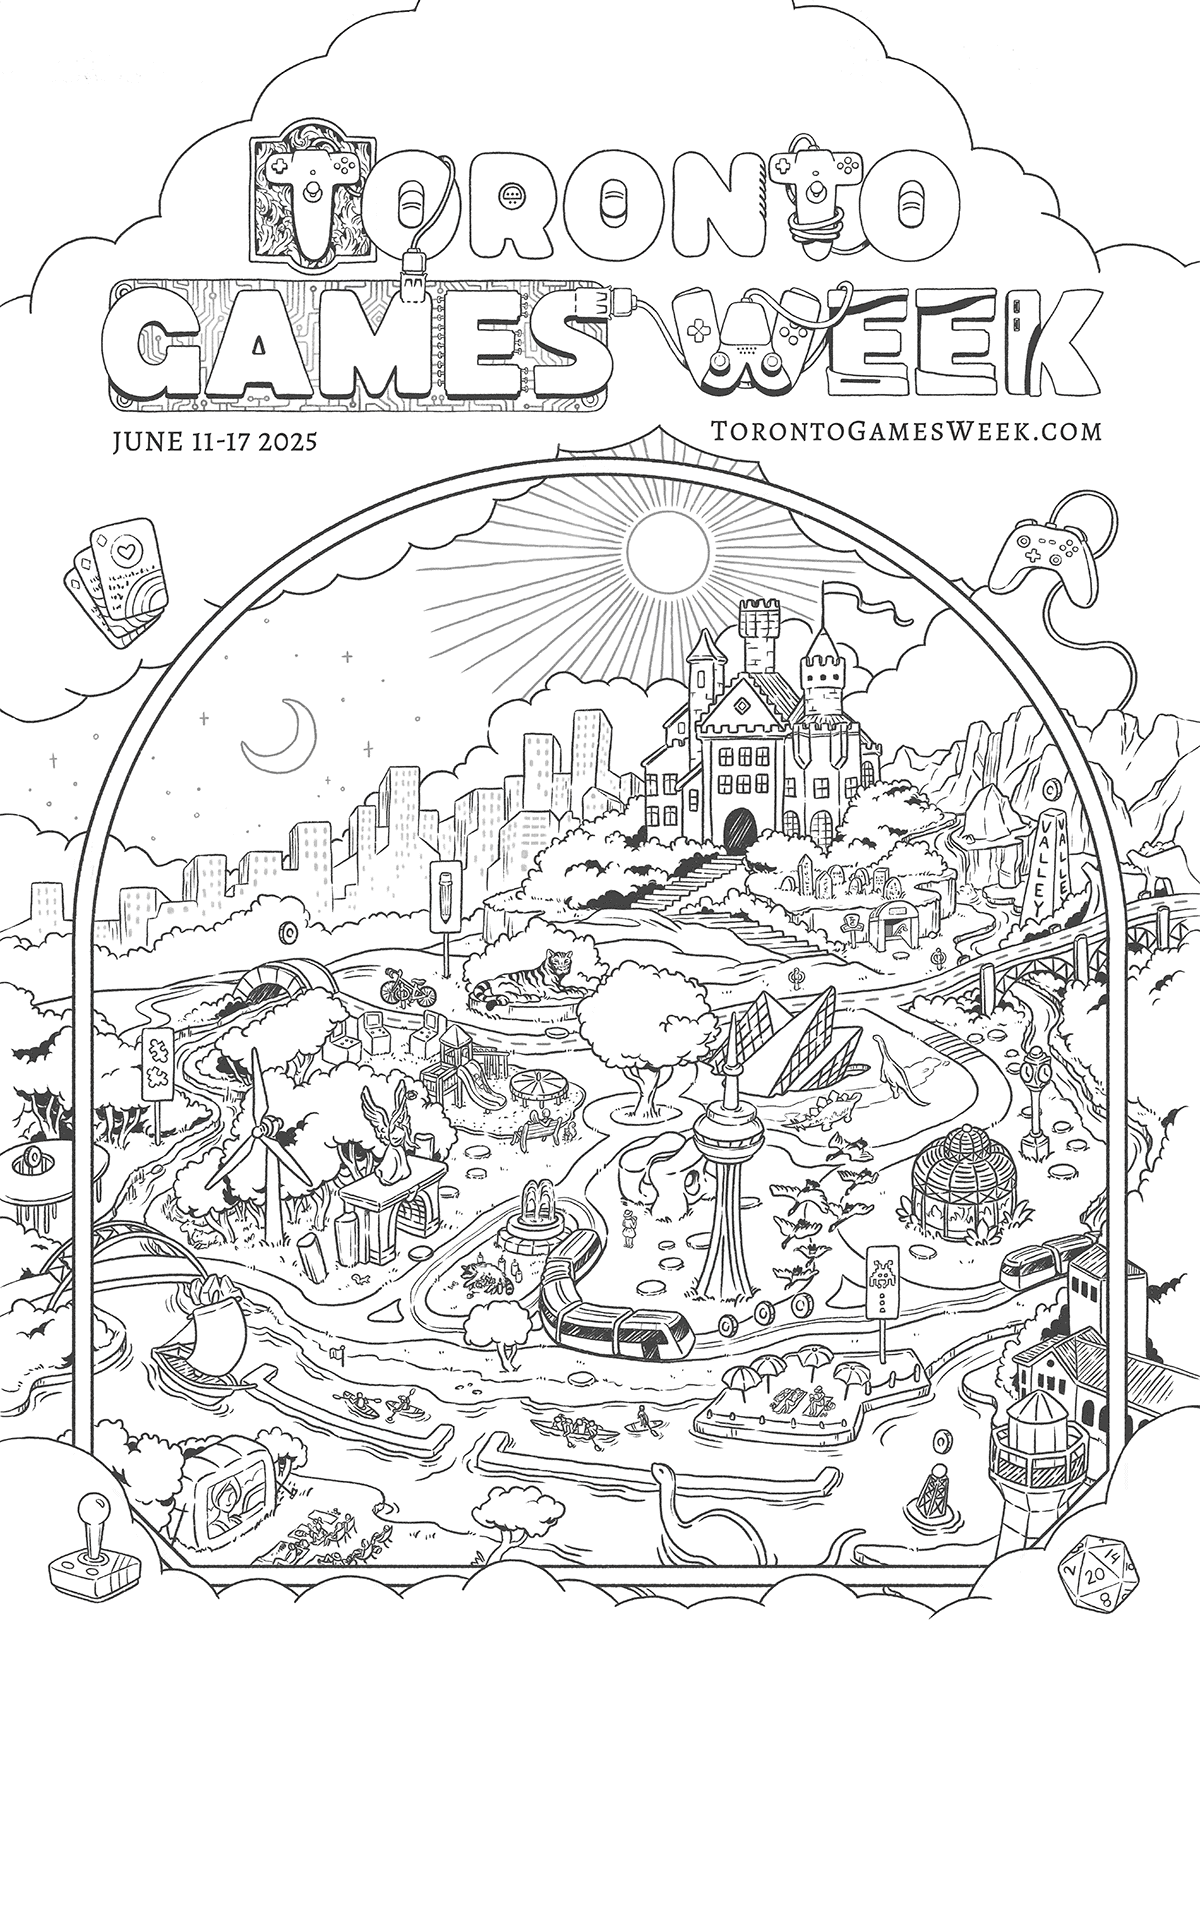
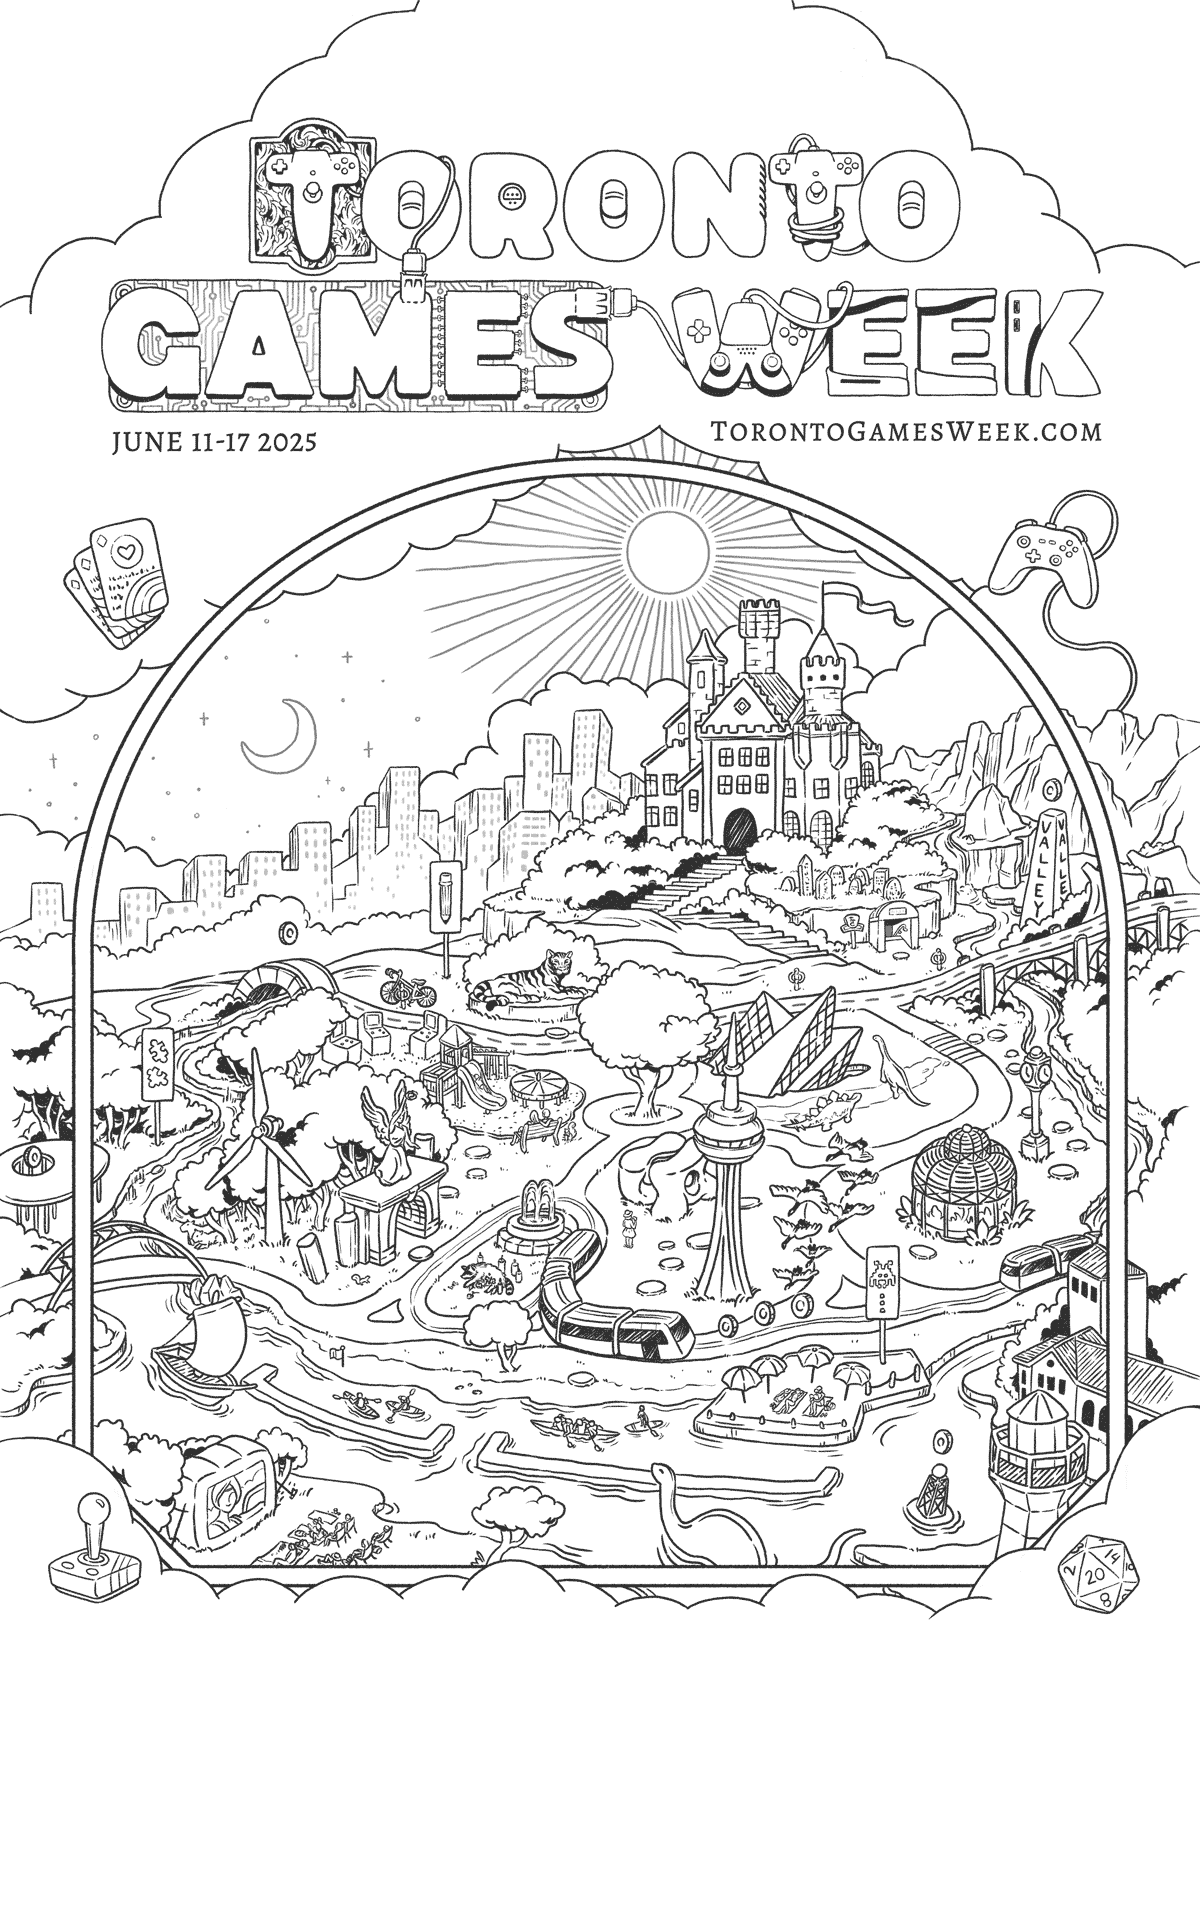
im

diff --git a/index.html b/index.html
@@ -530,19 +530,19 @@
       const imagePaths = {
         small: {
           bw: "images/2025/sbw.png",
-          color: "images/2025/scolour.png"
+          color: "images/2025/scolour.jpg"
         },
         medium: {
-          bw: "images/2025/lbw.png",
-          color: "images/2025/mcolour.png"
+          bw: "images/2025/lbw2.png",
+          color: "images/2025/mcolour.jpg"
         },
         large: {
-          bw: "images/2025/lbw.png",
-          color: "images/2025/lcolour.png"
+          bw: "images/2025/lbw2.png",
+          color: "images/2025/lcolour.jpg"
         },
         xlarge: {
           bw: "images/2025/xlbw.png",
-          color: "images/2025/xlcolour.png"
+          color: "images/2025/xlcolour.jpg"
         }
       };
 

diff --git a/about.html b/about.html
@@ -510,19 +510,19 @@
       const imagePaths = {
         small: {
           bw: "images/2025/sbw.png",
-          color: "images/2025/scolour.png"
+          color: "images/2025/scolour.jpg"
         },
         medium: {
           bw: "images/2025/mbw.png",
-          color: "images/2025/mcolour.png"
+          color: "images/2025/mcolour.jpg"
         },
         large: {
-          bw: "images/2025/lbw.png",
-          color: "images/2025/lcolour.png"
+          bw: "images/2025/lbw2.png",
+          color: "images/2025/lcolour.jpg"
         },
         xlarge: {
           bw: "images/2025/xlbw.png",
-          color: "images/2025/xlcolour.png"
+          color: "images/2025/xlcolour.jpg"
         }
       };
 
